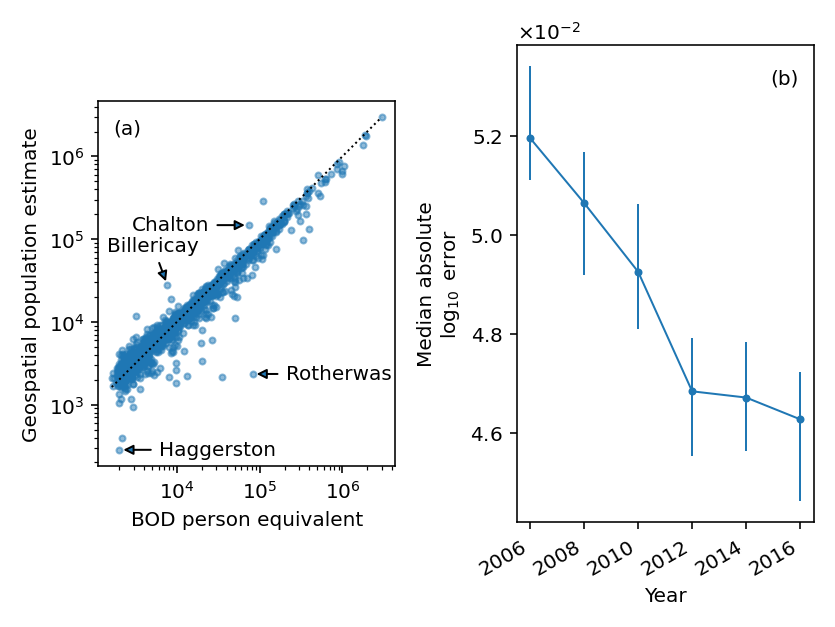
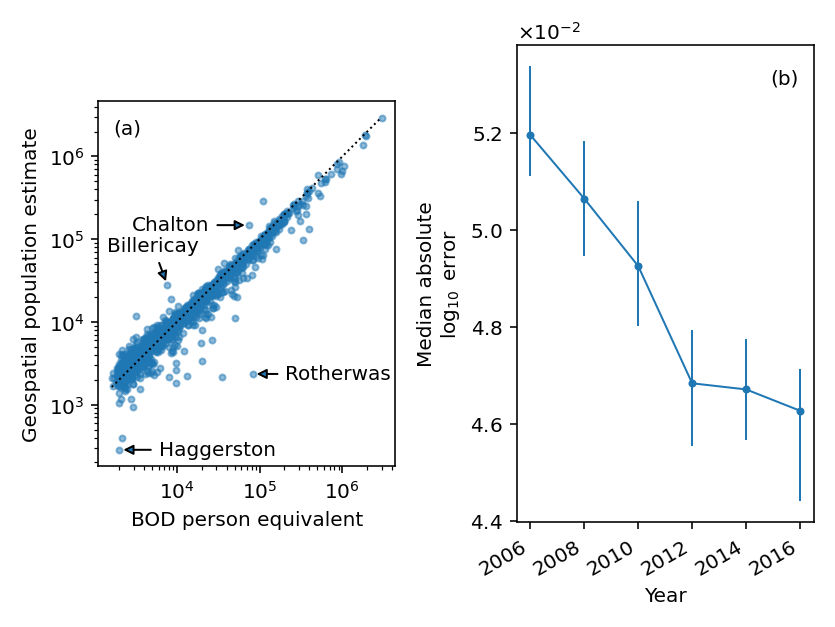
Export geospatial population estimates.

diff --git a/estimate_population.md b/estimate_population.md
@@ -119,6 +119,22 @@ summary
 ```
 
 ```python
+# Save the population estimates, outer-joining the catchment-level estimates with the treatment work
+# lookup so that catchments without a matched treatment work (and treatment works without a matched
+# catchment) are both retained.
+geospatial_population_estimates = pd.merge(
+    geospatial_estimate.reset_index(),
+    waterbase_catchment_lookup,
+    on='identifier',
+    how='outer',
+)
+geospatial_population_estimates = geospatial_population_estimates.sort_values(
+    ['identifier', 'year', 'uwwCode'])
+geospatial_population_estimates.to_csv(ROOT / 'geospatial_population_estimates.csv', index=False)
+geospatial_population_estimates.head()
+```
+
+```python
 # Merge the waterbase data (BOD p.e.) with geospatial population estimates for comparison.
 merged = pd.merge(waterbase_catchment_lookup, waterbase_consolidated, on=['uwwCode', 'uwwName'])
 merged = pd.merge(merged, geospatial_estimate, on=['year', 'identifier'])
